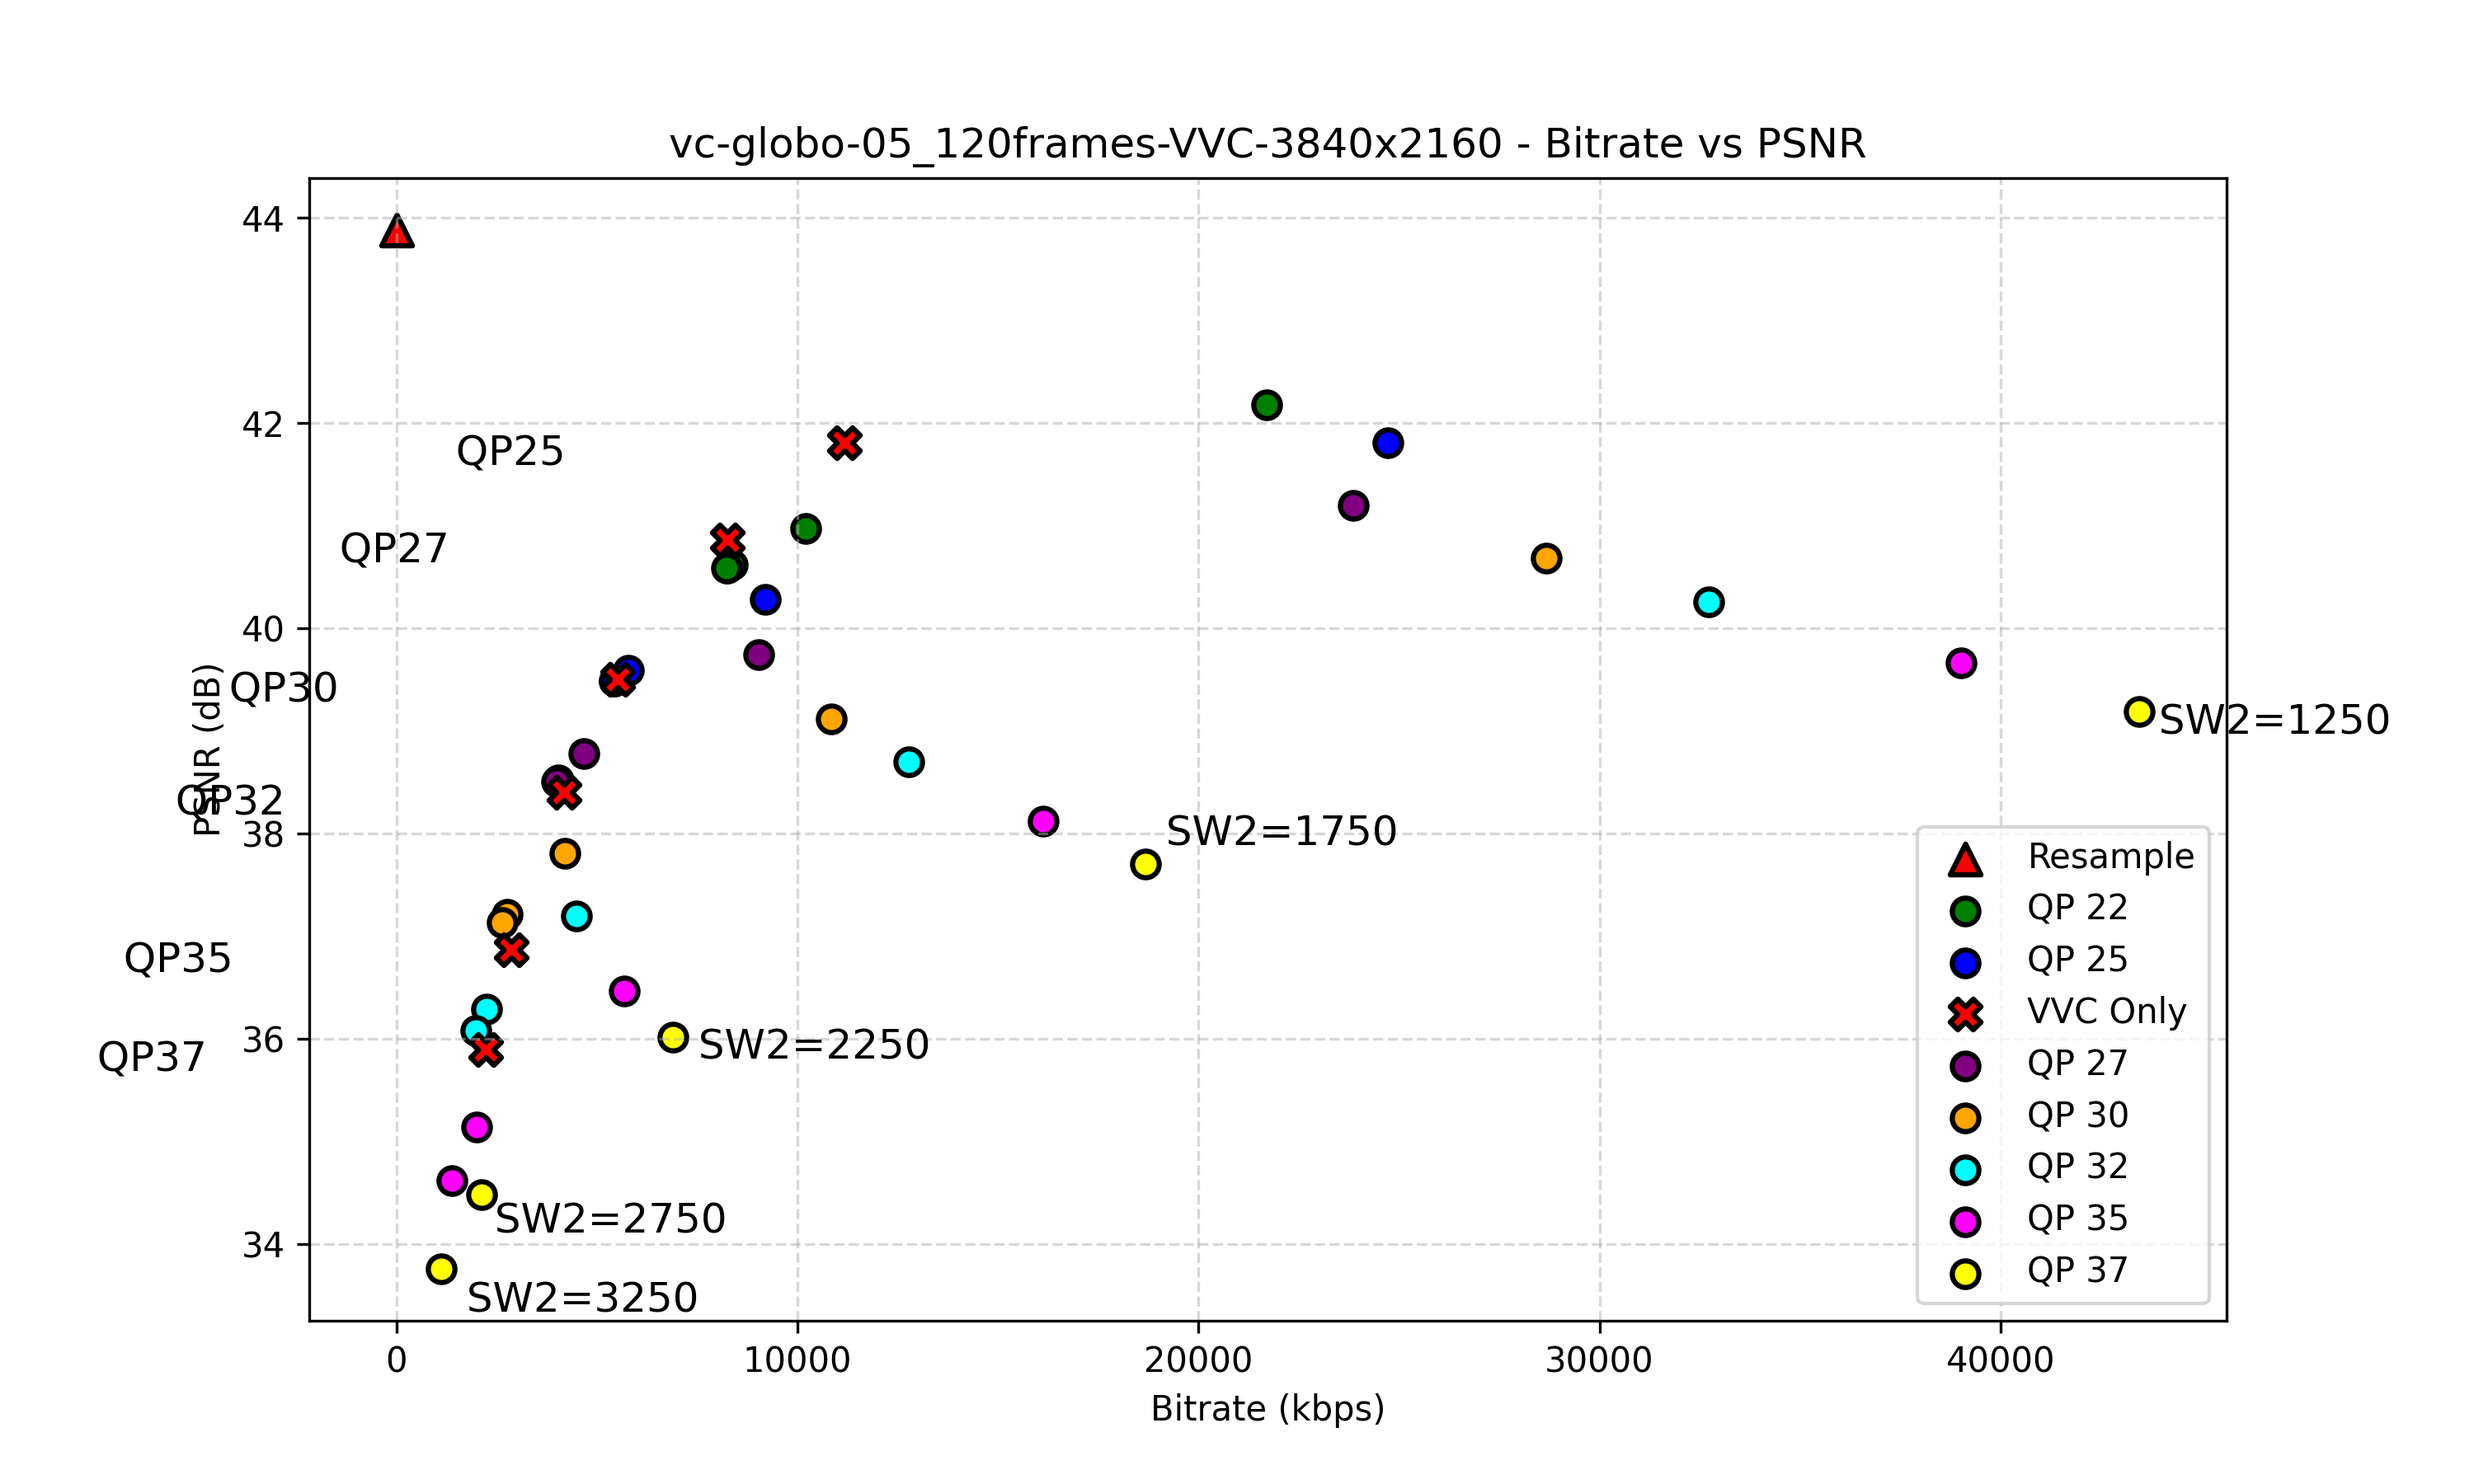
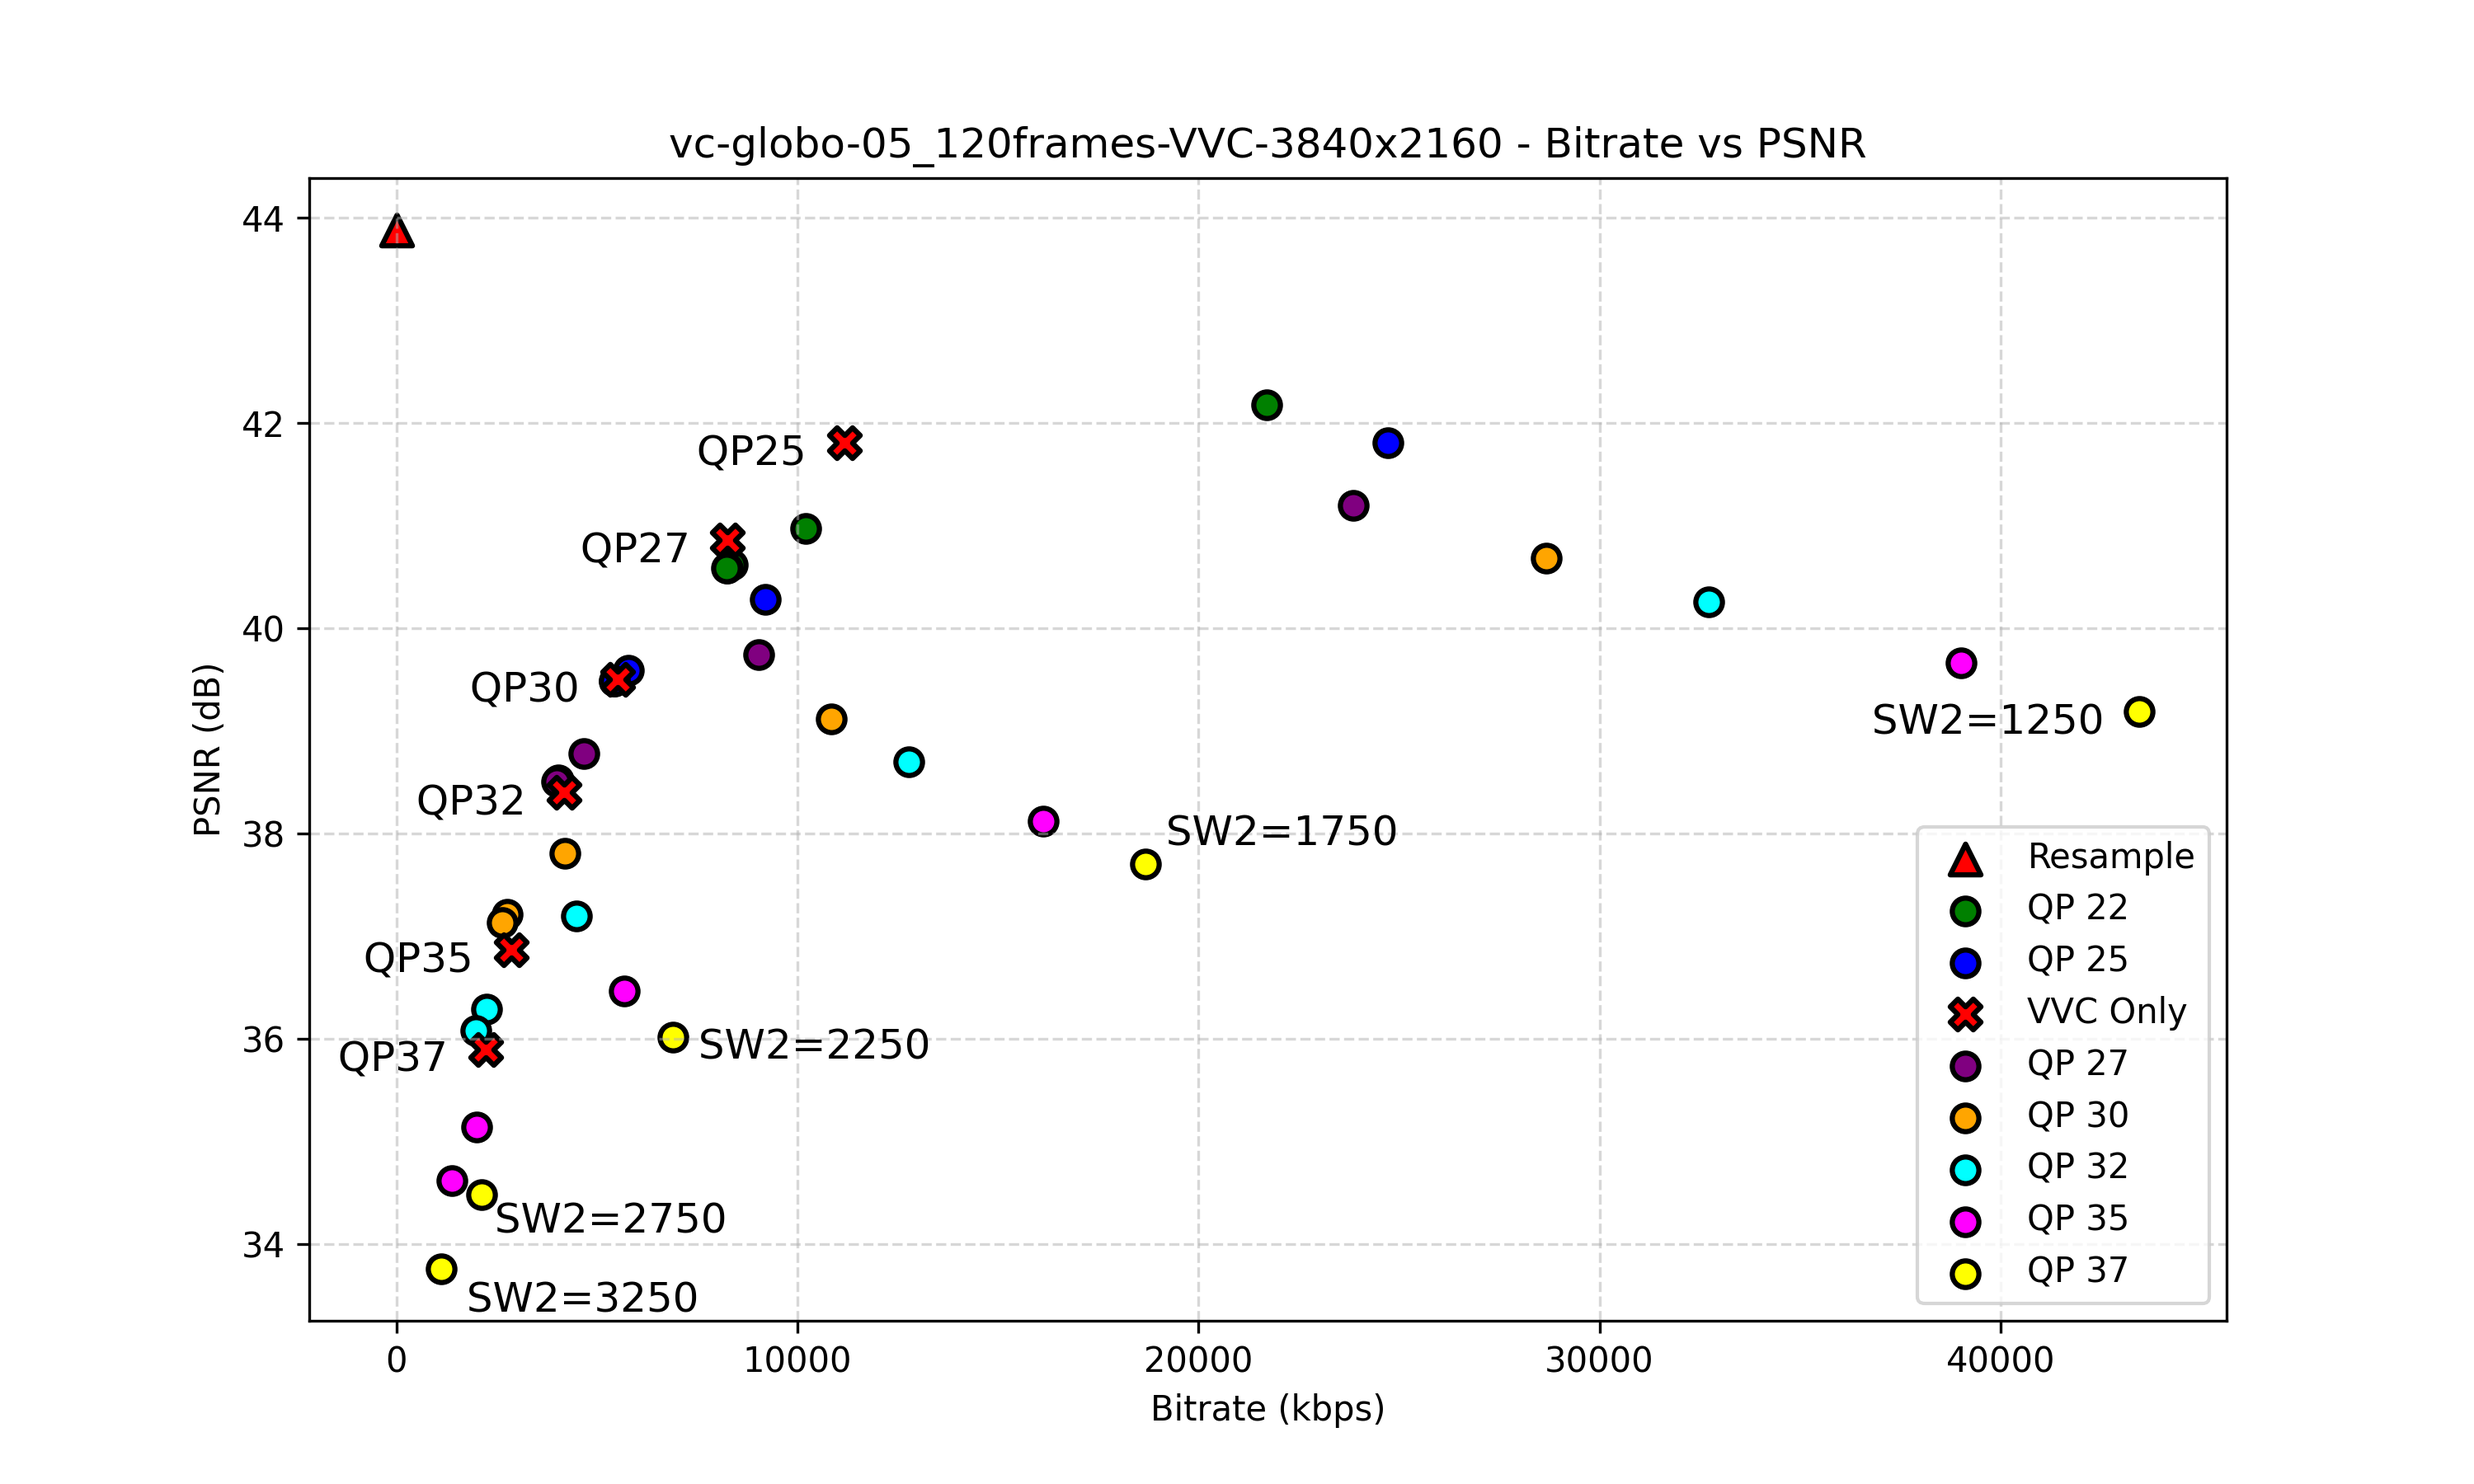
Updated via sync.sh

diff --git a/PSNR/psnr.py b/PSNR/psnr.py
@@ -100,14 +100,14 @@ for csv_path in csv_files:
                 pass
 
             if is_reference:
-                xoffset = -10000
+                xoffset = -4000
                 yoffset = -0.3
             elif is_resample:
                 xoffset = -100
                 yoffset = -100
 
             if row["sw2"] == 1250:
-                xoffset -= 350
+                xoffset -= 7500
                 yoffset -= 0.15
             
             if row["sw2"] == 3250:
